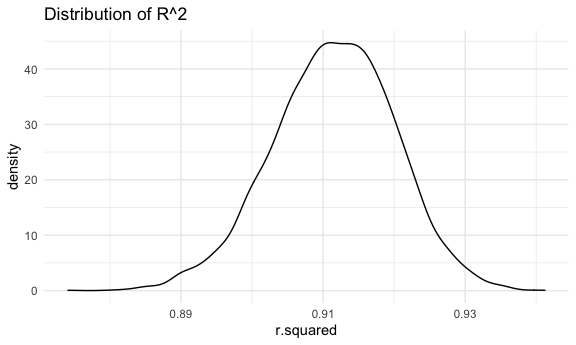
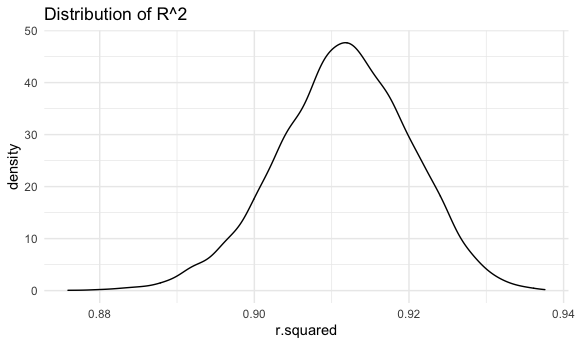
edited r code formatting and analysis for problem 1

diff --git a/p8105_hw6_rr3423.md b/p8105_hw6_rr3423.md
@@ -222,7 +222,7 @@ columns_bw =
 The **key variables** in the birthweight dataset are babysex, bhead,
 blength, bwt, delwt, fincome, frace, gaweeks, malform, menarche,
 mheight, momage, mrace, parity, pnumlbw, pnumsga, ppbmi, ppwt, smoken,
-wtgain. The **number of rows** in the birthweight dataset 4342. The
+wtgain. The **number of rows** in the birthweight dataset is 4342. The
 **number of columns** in the birthweight dataset is 20.
 
 ### Proposing a regression model for birthweight
@@ -245,7 +245,7 @@ birthweight. Mother’s race could affect child’s birthweight since there
 could be disparities in birthweight by race. Finally, mother’s weight
 gain during pregnancy could affect child’s birthweight since less weight
 gain for the mother might indicate lower child birthweight while more
-weight gain might indicate higher child birthweight.
+weight gain for the mother might indicate higher child birthweight.
 
 My proposed regression model for birthweight is:
 
@@ -281,7 +281,7 @@ regression model output: gaweeks, momage, mraceBlack, mracePuerto Rican,
 and wtgain. The following factors are not significant because they have
 a p-value greater than 0.05: fincome and mraceAsian.
 
-In order to further improve my proposed regression model. I will remove
+In order to further improve my proposed regression model, I will remove
 the fincome factor since it was not significant. Thus, my improved
 proposed regression model is as follows:
 
@@ -350,7 +350,7 @@ Thus, I will be using this improved regression model as my proposed
 regression model for birthweight, and I propose that the factors
 underlying birthweight are gaweeks, momage, mrace, and wtgain.
 
-### Comparing model to two other models
+### Comparing my model to two other models
 
 Creating and tidying output of model using length at birth and
 gestational age as predictors (main effects only)
@@ -359,7 +359,7 @@ gestational age as predictors (main effects only)
 # creating model using blength and gaweeks as predictors 
 lm_2 = lm(bwt ~ blength + gaweeks, data = birthweight_df)
 
-# tidying model
+# tidying modeloutput
 lm_2 %>% 
   broom::tidy() %>% 
   select(term, estimate, p.value) %>% 
@@ -380,7 +380,7 @@ these
 # creating model of all interactions between head circumference, length, and sex
 lm_3 = lm(bwt ~ bhead*blength*babysex, data = birthweight_df)
 
-# tidying model
+# tidying model output
 lm_3 %>% 
   broom::tidy() %>% 
   select(term, estimate, p.value) %>%  
@@ -457,7 +457,7 @@ reduce its prediction accuracy.
 
 Based on this cross validation, it appears that baby’s head
 circumference at birth, baby’s length at birth, and baby’s sex are
-significant predictors for birthweight.
+predictors for birthweight.
 
 ## PROBLEM 2
 
@@ -580,5 +580,5 @@ bootstrap_results %>%
 
 | Quantity  | ci\_lower | ci\_upper |
 |:----------|----------:|----------:|
-| log       |     7.147 |     7.829 |
-| r.squared |     0.894 |     0.928 |
+| log       |     7.139 |     7.832 |
+| r.squared |     0.893 |     0.928 |
